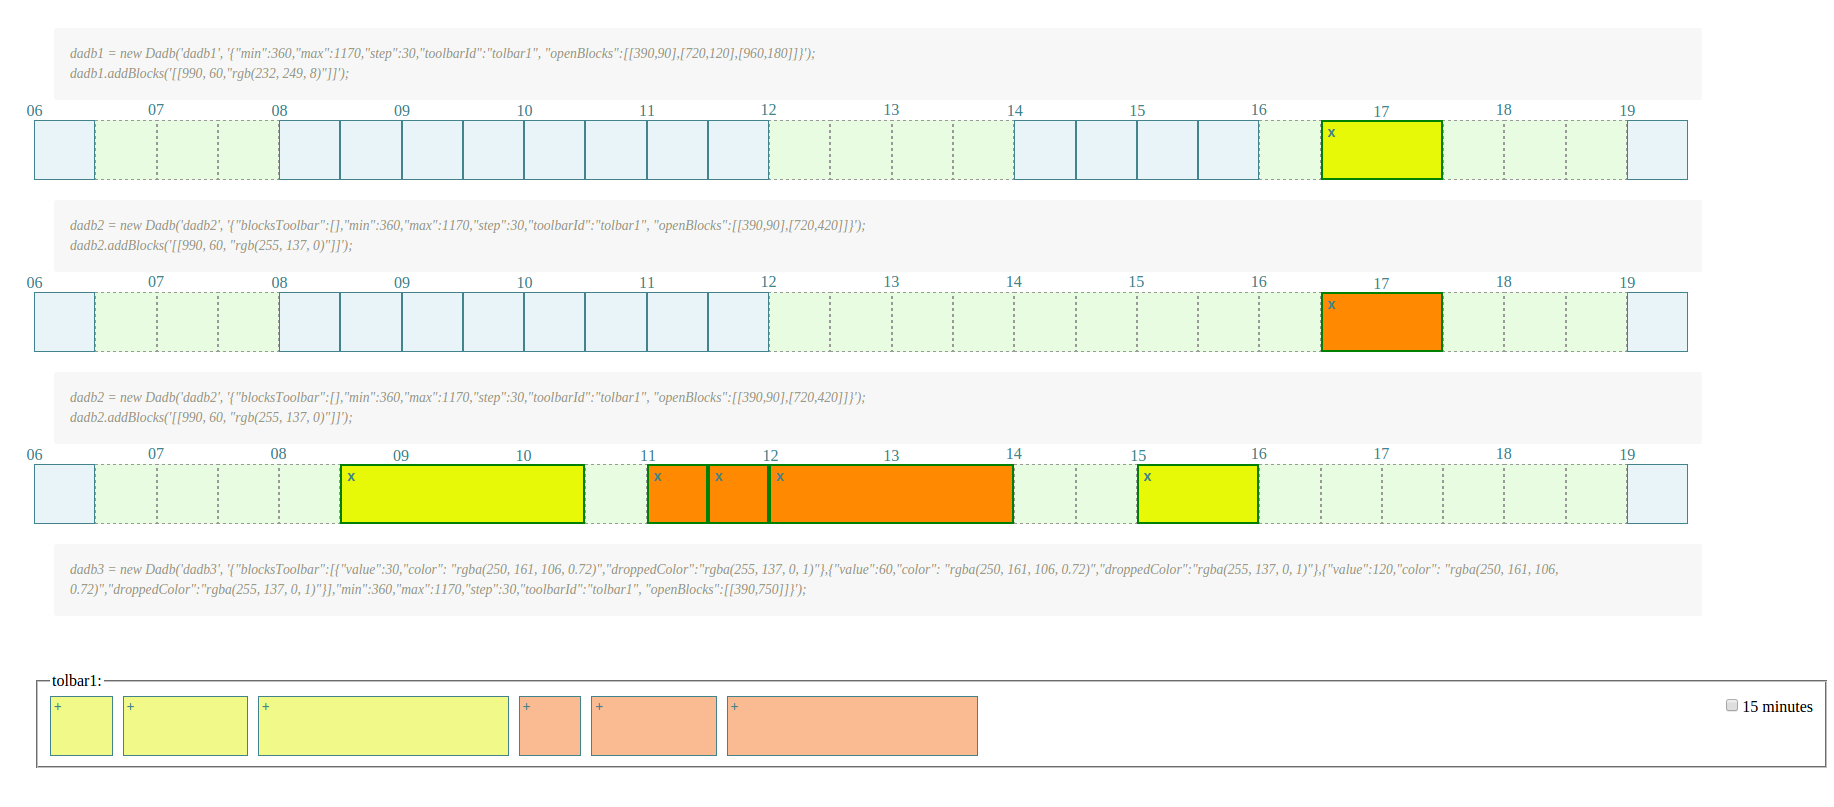
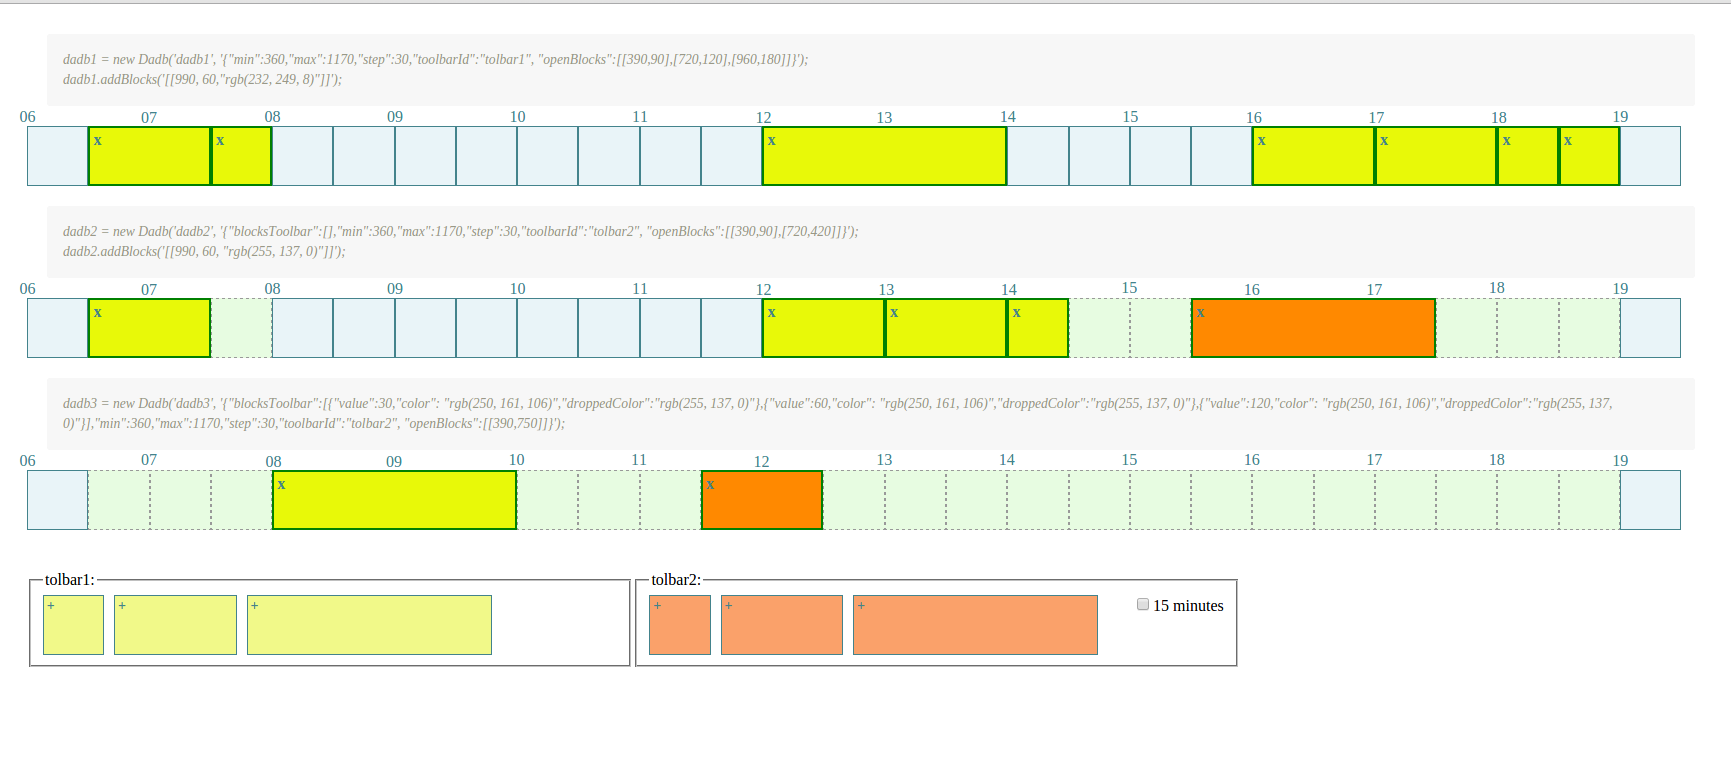
IE8 improvements

Changed region(s): [[0.0, 0.0621, 0.9983, 0.9625], [0.0, 0.0, 1.0, 0.031], [0.9359, 0.8383, 0.9983, 0.9004]]

diff --git a/app/index.html b/app/index.html
@@ -25,24 +25,25 @@
         </div>
         <div id="dadb1"></div>
         <div class="code">
-            dadb2 = new Dadb('dadb2', '{"blocksToolbar":[],"min":360,"max":1170,"step":30,"toolbarId":"tolbar1", "openBlocks":[[390,90],[720,420]]}');
+            dadb2 = new Dadb('dadb2', '{"blocksToolbar":[],"min":360,"max":1170,"step":30,"toolbarId":"tolbar2", "openBlocks":[[390,90],[720,420]]}');
             <br>dadb2.addBlocks('[[990, 60, "rgb(255, 137, 0)"]]');
         </div>
         <div id="dadb2"></div>
         <div class="code">
-            dadb2 = new Dadb('dadb2', '{"blocksToolbar":[],"min":360,"max":1170,"step":30,"toolbarId":"tolbar1", "openBlocks":[[390,90],[720,420]]}');
-            <br>dadb2.addBlocks('[[990, 60, "rgb(255, 137, 0)"]]');
+            dadb3 = new Dadb('dadb3', '{"blocksToolbar":[{"value":30,"color": "rgb(250, 161, 106)","droppedColor":"rgb(255, 137, 0)"},{"value":60,"color": "rgb(250, 161, 106)","droppedColor":"rgb(255, 137, 0)"},{"value":120,"color": "rgb(250, 161, 106)","droppedColor":"rgb(255, 137, 0)"}],"min":360,"max":1170,"step":30,"toolbarId":"tolbar2", "openBlocks":[[390,750]]}');
         </div>
         <div id="dadb3"></div>
-        <div class="code">
-            dadb3 = new Dadb('dadb3', '{"blocksToolbar":[{"value":30,"color": "rgba(250, 161, 106, 0.72)","droppedColor":"rgba(255, 137, 0, 1)"},{"value":60,"color": "rgba(250, 161, 106, 0.72)","droppedColor":"rgba(255, 137, 0, 1)"},{"value":120,"color": "rgba(250, 161, 106, 0.72)","droppedColor":"rgba(255, 137, 0, 1)"}],"min":360,"max":1170,"step":30,"toolbarId":"tolbar1", "openBlocks":[[390,750]]}');
-        </div>
+
         <br>
         <br>
 
-        <fieldset style="width: 33%">
+        <fieldset style="width: 32%; float: left;">
             <legend>tolbar1:</legend>
             <div id="tolbar1"></div>
+        </fieldset>
+        <fieldset style="width: 32%; float: left;">
+            <legend>tolbar2:</legend>
+            <div id="tolbar2"></div>
             <div class="step_switch">
                 <input type="checkbox" name="step" id="step_checkbox" value="30">15 minutes</div>
         </fieldset>
@@ -67,19 +68,21 @@
             // inicialization - test from APEX (string insted of objects)
             dadb1 = new Dadb('dadb1', '{"min":360,"max":1170,"step":30,"toolbarId":"tolbar1", "openBlocks":[[390,90],[720,120],[960,180]]}');
             dadb1.addBlocks('[[990, 60,"rgb(232, 249, 8)"]]');
-            dadb2 = new Dadb('dadb2', '{"blocksToolbar":[],"min":360,"max":1170,"step":30,"toolbarId":"tolbar1", "openBlocks":[[390,90],[720,420]]}');
+            dadb2 = new Dadb('dadb2', '{"blocksToolbar":[],"min":360,"max":1170,"step":30,"toolbarId":"tolbar2", "openBlocks":[[390,90],[720,420]]}');
             dadb2.addBlocks('[[990, 60, "rgb(255, 137, 0)"]]');
 
-            dadb3 = new Dadb('dadb3', '{"blocksToolbar":[{"value":30,"color": "rgba(250, 161, 106, 0.72)","droppedColor":"rgba(255, 137, 0, 1)"},{"value":60,"color": "rgba(250, 161, 106, 0.72)","droppedColor":"rgba(255, 137, 0, 1)"},{"value":120,"color": "rgba(250, 161, 106, 0.72)","droppedColor":"rgba(255, 137, 0, 1)"}],"min":360,"max":1170,"step":30,"toolbarId":"tolbar1", "openBlocks":[[390,750]]}');
+            dadb3 = new Dadb('dadb3', '{"blocksToolbar":[{"value":30,"color": "rgb(250, 161, 106)","droppedColor":"rgb(255, 137, 0)"},{"value":60,"color": "rgb(250, 161, 106)","droppedColor":"rgb(255, 137, 0)"},{"value":120,"color": "rgb(250, 161, 106)","droppedColor":"rgb(255, 137, 0)"}],"min":360,"max":1170,"step":30,"toolbarId":"tolbar2", "openBlocks":[[390,750]]}');
 
             $('#step_checkbox').change(function () {
                 if ($(this).is(":checked")) {
                     dadb1.changeStep(15);
                     dadb2.changeStep(15);
+                    dadb3.changeStep(15);
                     return;
                 }
                 dadb1.changeStep(30);
                 dadb2.changeStep(30);
+                dadb3.changeStep(30);
             });
         });
     </script>

diff --git a/app/scripts/main.js b/app/scripts/main.js
@@ -1,9 +1,7 @@
-'use strict';
-
 (function (w, $) {
 
     /**
-     * @class Mrs
+     * @class Dadb
      *
      * @constructor
      * @param {String} parentId, this id will be used to create jQuery selector and apped a module code to this id
@@ -344,7 +342,7 @@
         /**
          * Change the step value
          * @param {Number} step example: 30
-         * @return {Object} self instance of Mrs class
+         * @return {Object} self instance of Dadb class
          */
         this.changeStep = function (step) {
             _options.step = step;

diff --git a/app/styles/main.css b/app/styles/main.css
@@ -84,17 +84,9 @@ div.planned-block-end {
     background: #fff;
 }
 div.draggable-block .handle {
-    height: 30%;
     cursor: move;
 }
 .step_content .closer {
-    display: block;
-    right: 5px;
-    top: 2px;
-    font: bold 14px arial;
-    color: #666;
-    padding: 0px 2px;
-    line-height: 1;
     cursor: pointer;
 }
 .fa {
